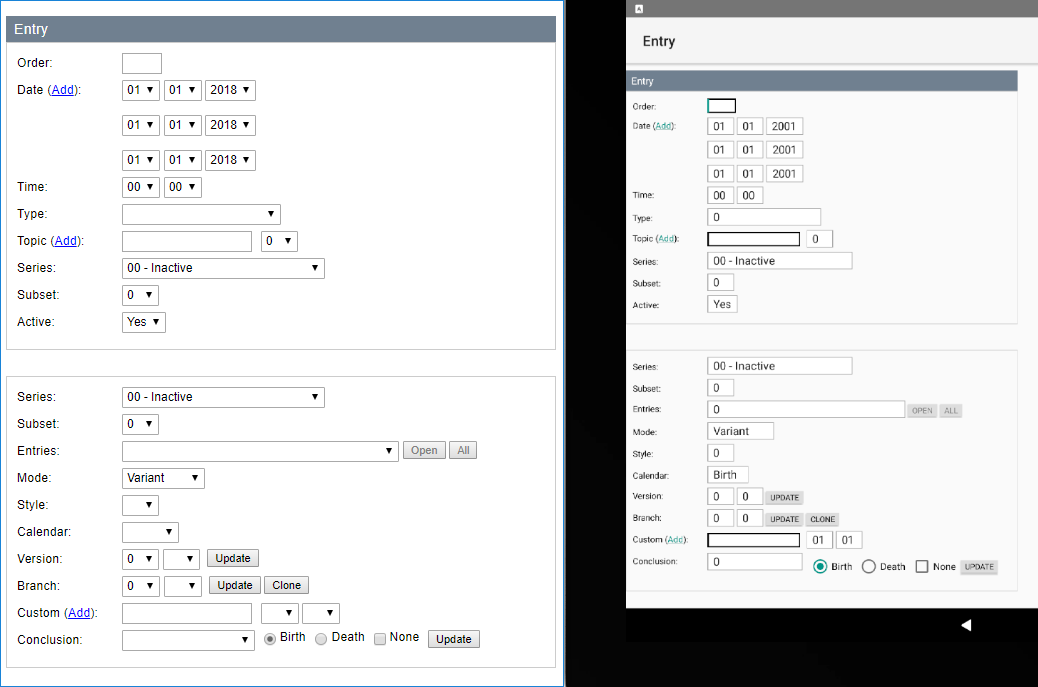
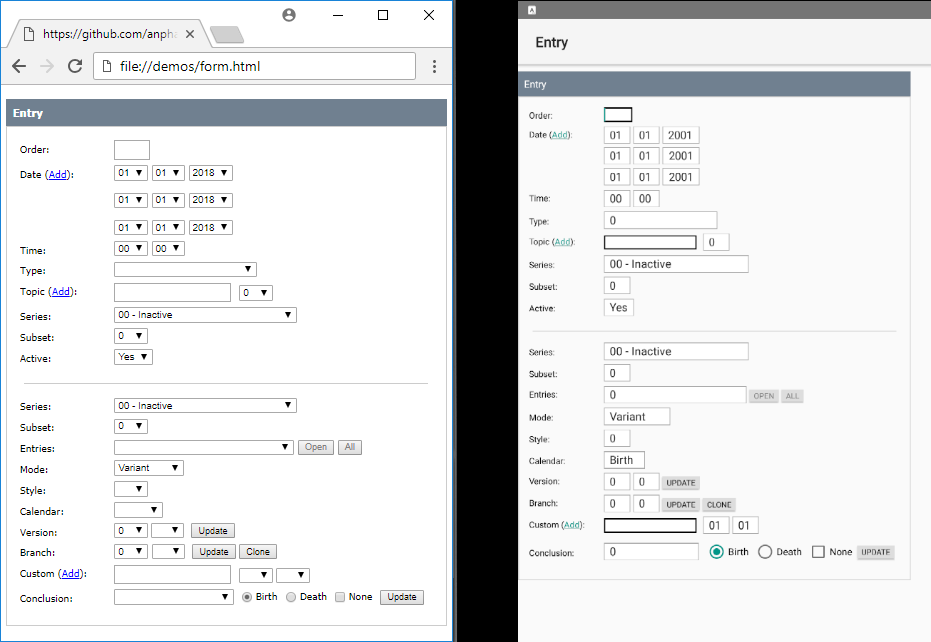
HR did not display background color.

Changed region(s): [[0.0, 0.0, 1.0, 1.0], [0.7787, 0.5919, 0.9345, 0.6542], [0.2803, 0.4673, 0.3115, 0.4984]]

diff --git a/src/resource.js b/src/resource.js
@@ -25,7 +25,8 @@ export const RESOURCE = {
 const PROPERTY_ANDROID =
 {
     'backgroundStyle': {
-        'backgroundColor': 'android:background="@drawable/{0}"'
+        'background': 'android:background="@drawable/{0}"',
+        'backgroundColor': 'android:background="{0}"'
     },
     'computedStyle': {
         'fontFamily': 'android:fontFamily="{0}"',
@@ -397,24 +398,25 @@ export function setBackgroundStyle(node) {
     for (const i in attributes) {
         attributes[i] = attributes[i](style[i]);
     }
-    if (attributes.border[0] != 'none' || attributes.borderRadius != null) {
-        attributes.border[2] = addResourceColor(attributes.border[2]);
-        if (backgroundParent[0] == attributes.backgroundColor[0] || attributes.backgroundColor[4] == 0) {
-            attributes.backgroundColor = null;
-        }
-        else {
-            attributes.backgroundColor[1] = addResourceColor(attributes.backgroundColor[1]);
-        }
-        const borderStyle = {
-            black: 'android:color="@android:color/black"',
-            solid: `android:color="${attributes.border[2]}"`
-        };
-        borderStyle.dotted = `${borderStyle.solid} android:dashWidth="3px" android:dashGap="1px"`;
-        borderStyle.dashed = `${borderStyle.solid} android:dashWidth="1px" android:dashGap="1px"`;
-        borderStyle.default = borderStyle[attributes.border[0]] || borderStyle.black;
+    attributes.border[2] = addResourceColor(attributes.border[2]);
+    if (backgroundParent[0] == attributes.backgroundColor[0] || attributes.backgroundColor[4] == 0) {
+        attributes.backgroundColor = null;
+    }
+    else {
+        attributes.backgroundColor[1] = addResourceColor(attributes.backgroundColor[1]);
+    }
+    const borderStyle = {
+        black: 'android:color="@android:color/black"',
+        solid: `android:color="${attributes.border[2]}"`
+    };
+    borderStyle.dotted = `${borderStyle.solid} android:dashWidth="3px" android:dashGap="1px"`;
+    borderStyle.dashed = `${borderStyle.solid} android:dashWidth="1px" android:dashGap="1px"`;
+    borderStyle.default = borderStyle[attributes.border[0]] || borderStyle.black;
+    if (attributes.border[0] != 'none') {
         let template = null;
         let data = null;
-        if (attributes.border[0] != 'none' && attributes.borderRadius != null) {
+        let resourceName = null;
+        if (attributes.borderRadius != null) {
             template = parseTemplateMatch(SHAPERECTANGLE_TMPL);
             data = {
                 '0': [{
@@ -434,7 +436,7 @@ export function setBackgroundStyle(node) {
                 attributes.borderRadius.forEach((value, index) => borderRadiusItem[`${['topLeft', 'topRight', 'bottomRight', 'bottomLeft'][index]}Radius`] = value);
             }
         }
-        else if (attributes.border[0] != 'none' && attributes.backgroundColor == null) {
+        else if (attributes.backgroundColor == null) {
             template = parseTemplateMatch(SHAPERECTANGLE_TMPL);
             data = {
                 '0': [{
@@ -470,19 +472,21 @@ export function setBackgroundStyle(node) {
             }
         }
         let xml = parseTemplateData(template, data);
-        let drawableName = null;
         for (const [name, value] of RESOURCE.DRAWABLE.entries()) {
             if (value == xml) {
-                drawableName = name;
+                resourceName = name;
                 break;
             }
         }
-        if (drawableName == null) {
-            drawableName = `${node.tagName.toLowerCase()}_${node.androidId}`;
-            RESOURCE.DRAWABLE.set(drawableName, xml);
+        if (resourceName == null) {
+            resourceName = `${node.tagName.toLowerCase()}_${node.androidId}`;
+            RESOURCE.DRAWABLE.set(resourceName, xml);
         }
-        node.drawable = drawableName;
-        return { backgroundColor: drawableName };
+        node.drawable = resourceName;
+        return { background: resourceName };
+    }
+    else if (attributes.backgroundColor != null) {
+        return { backgroundColor: attributes.backgroundColor[1] };
     }
     return null;
 }

diff --git a/demos/form.html b/demos/form.html
@@ -6,33 +6,26 @@
     <style>
         body {
             margin: 0px;
-            font-family: Arial, Helvetica, Tahoma;
-            font-size: 12px;
+            font-family: Tahoma;
+            font-size: 11px;
             padding: 5px;
             letter-spacing: 0.3px;
             -webkit-font-smoothing: antialiased;
         }
         ul {
             margin: 0px;
-            padding: 0px;
+            padding: 5px;
             list-style: none;
-        }
-        h1, h2, h3, h4 {
-            font-weight: normal;
-            margin: 0px;
-            padding: 0px;
-        }
-        h3, h4 {
-            font-size: 11px;
         }
         body > div {
             margin-top: 10px;
         }
-        body > div h2 {
-            font-size: 14px;
+        h2 {
+            font-size: 12px;
             color: #fff;
             background-color: slategray;
-            padding: 5px 8px;
+            margin: 0px;
+            padding: 8px;
         }
         a {
             color: blue;
@@ -44,7 +37,7 @@
         }
         select {
             min-width: 37px;
-            font-size: 12px;
+            font-size: 11px;
             padding: 1px 0px 2px 0px;
         }
         input[type=button], input[type=submit] {
@@ -68,13 +61,17 @@
             display: inline;
         }
         li input[type=button] {
-            font-size: 11px;
+            font-size: 10px;
         }
         input[type=text] {
             width: 40px;
         }
         hr {
-            margin: 0px;
+            height: 1px;
+            margin: 10px;
+            padding: 0px;
+            border: none;
+            background-color: #ccc;
         }
         input[type=radio], input[type=checkbox] {
             vertical-align: sub;
@@ -409,9 +406,7 @@
                     </select>
                 </li>
             </ul>
-        </form>
-        <br />
-        <form name="itemofentry" action="/admin/itemofentry" method="post" autocomplete="off">
+            <hr />
             <ul>
                 <li>
                     <label>Series:</label>
@@ -429,7 +424,7 @@
                 </li>
                 <li>
                     <label>Entries:</label>
-                    <select name="entry" class="req-pageurl-0" style="width: 277px;">
+                    <select name="entry" class="req-pageurl-0" style="width: 200px;">
                         <option value=""></option>
                         <option value="0">0</option>
                         <option value="1">1</option>

diff --git a/src/constraint.js b/src/constraint.js
@@ -51,10 +51,10 @@ function setConstraintPercent(parent, nodes, index) {
     let full = false;
     switch (index) {
         case 0:
-            full = (nodes.last.linear.right >= parent.flex.right);
+            full = (nodes.last.linear.right == parent.box.right);
             break;
         case 1:
-            full = (nodes.last.linear.bottom >= parent.box.bottom);
+            full = (nodes.last.linear.bottom == parent.box.bottom);
             break;
     }
     nodes[0].app(`layout_constraint${(index ? 'Horizontal' : 'Vertical')}_chainStyle`, 'spread');
